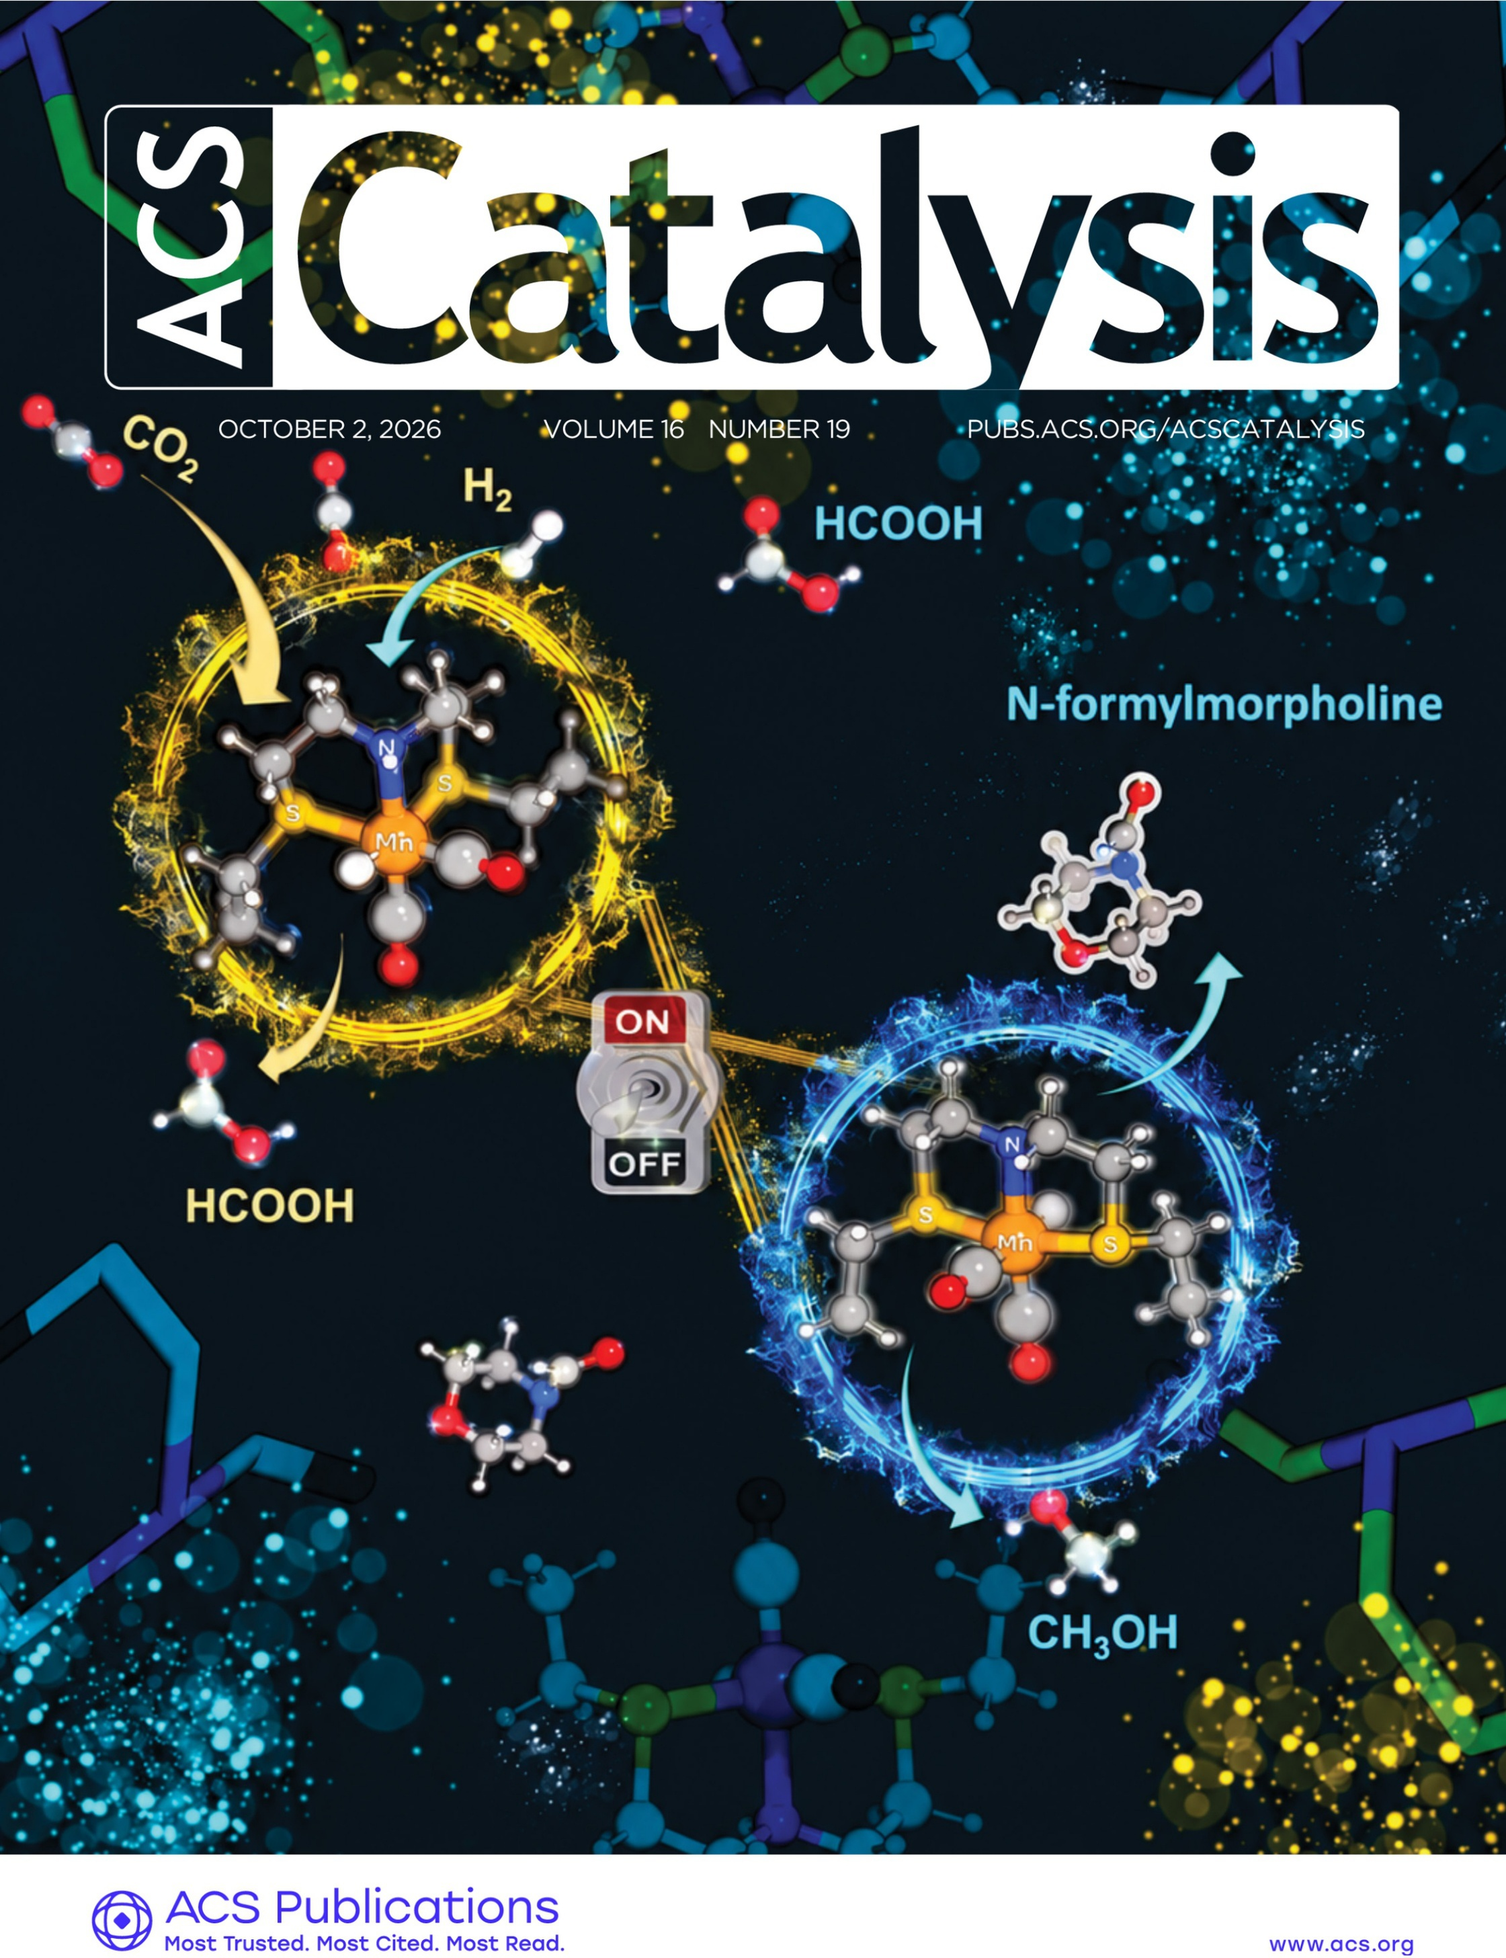
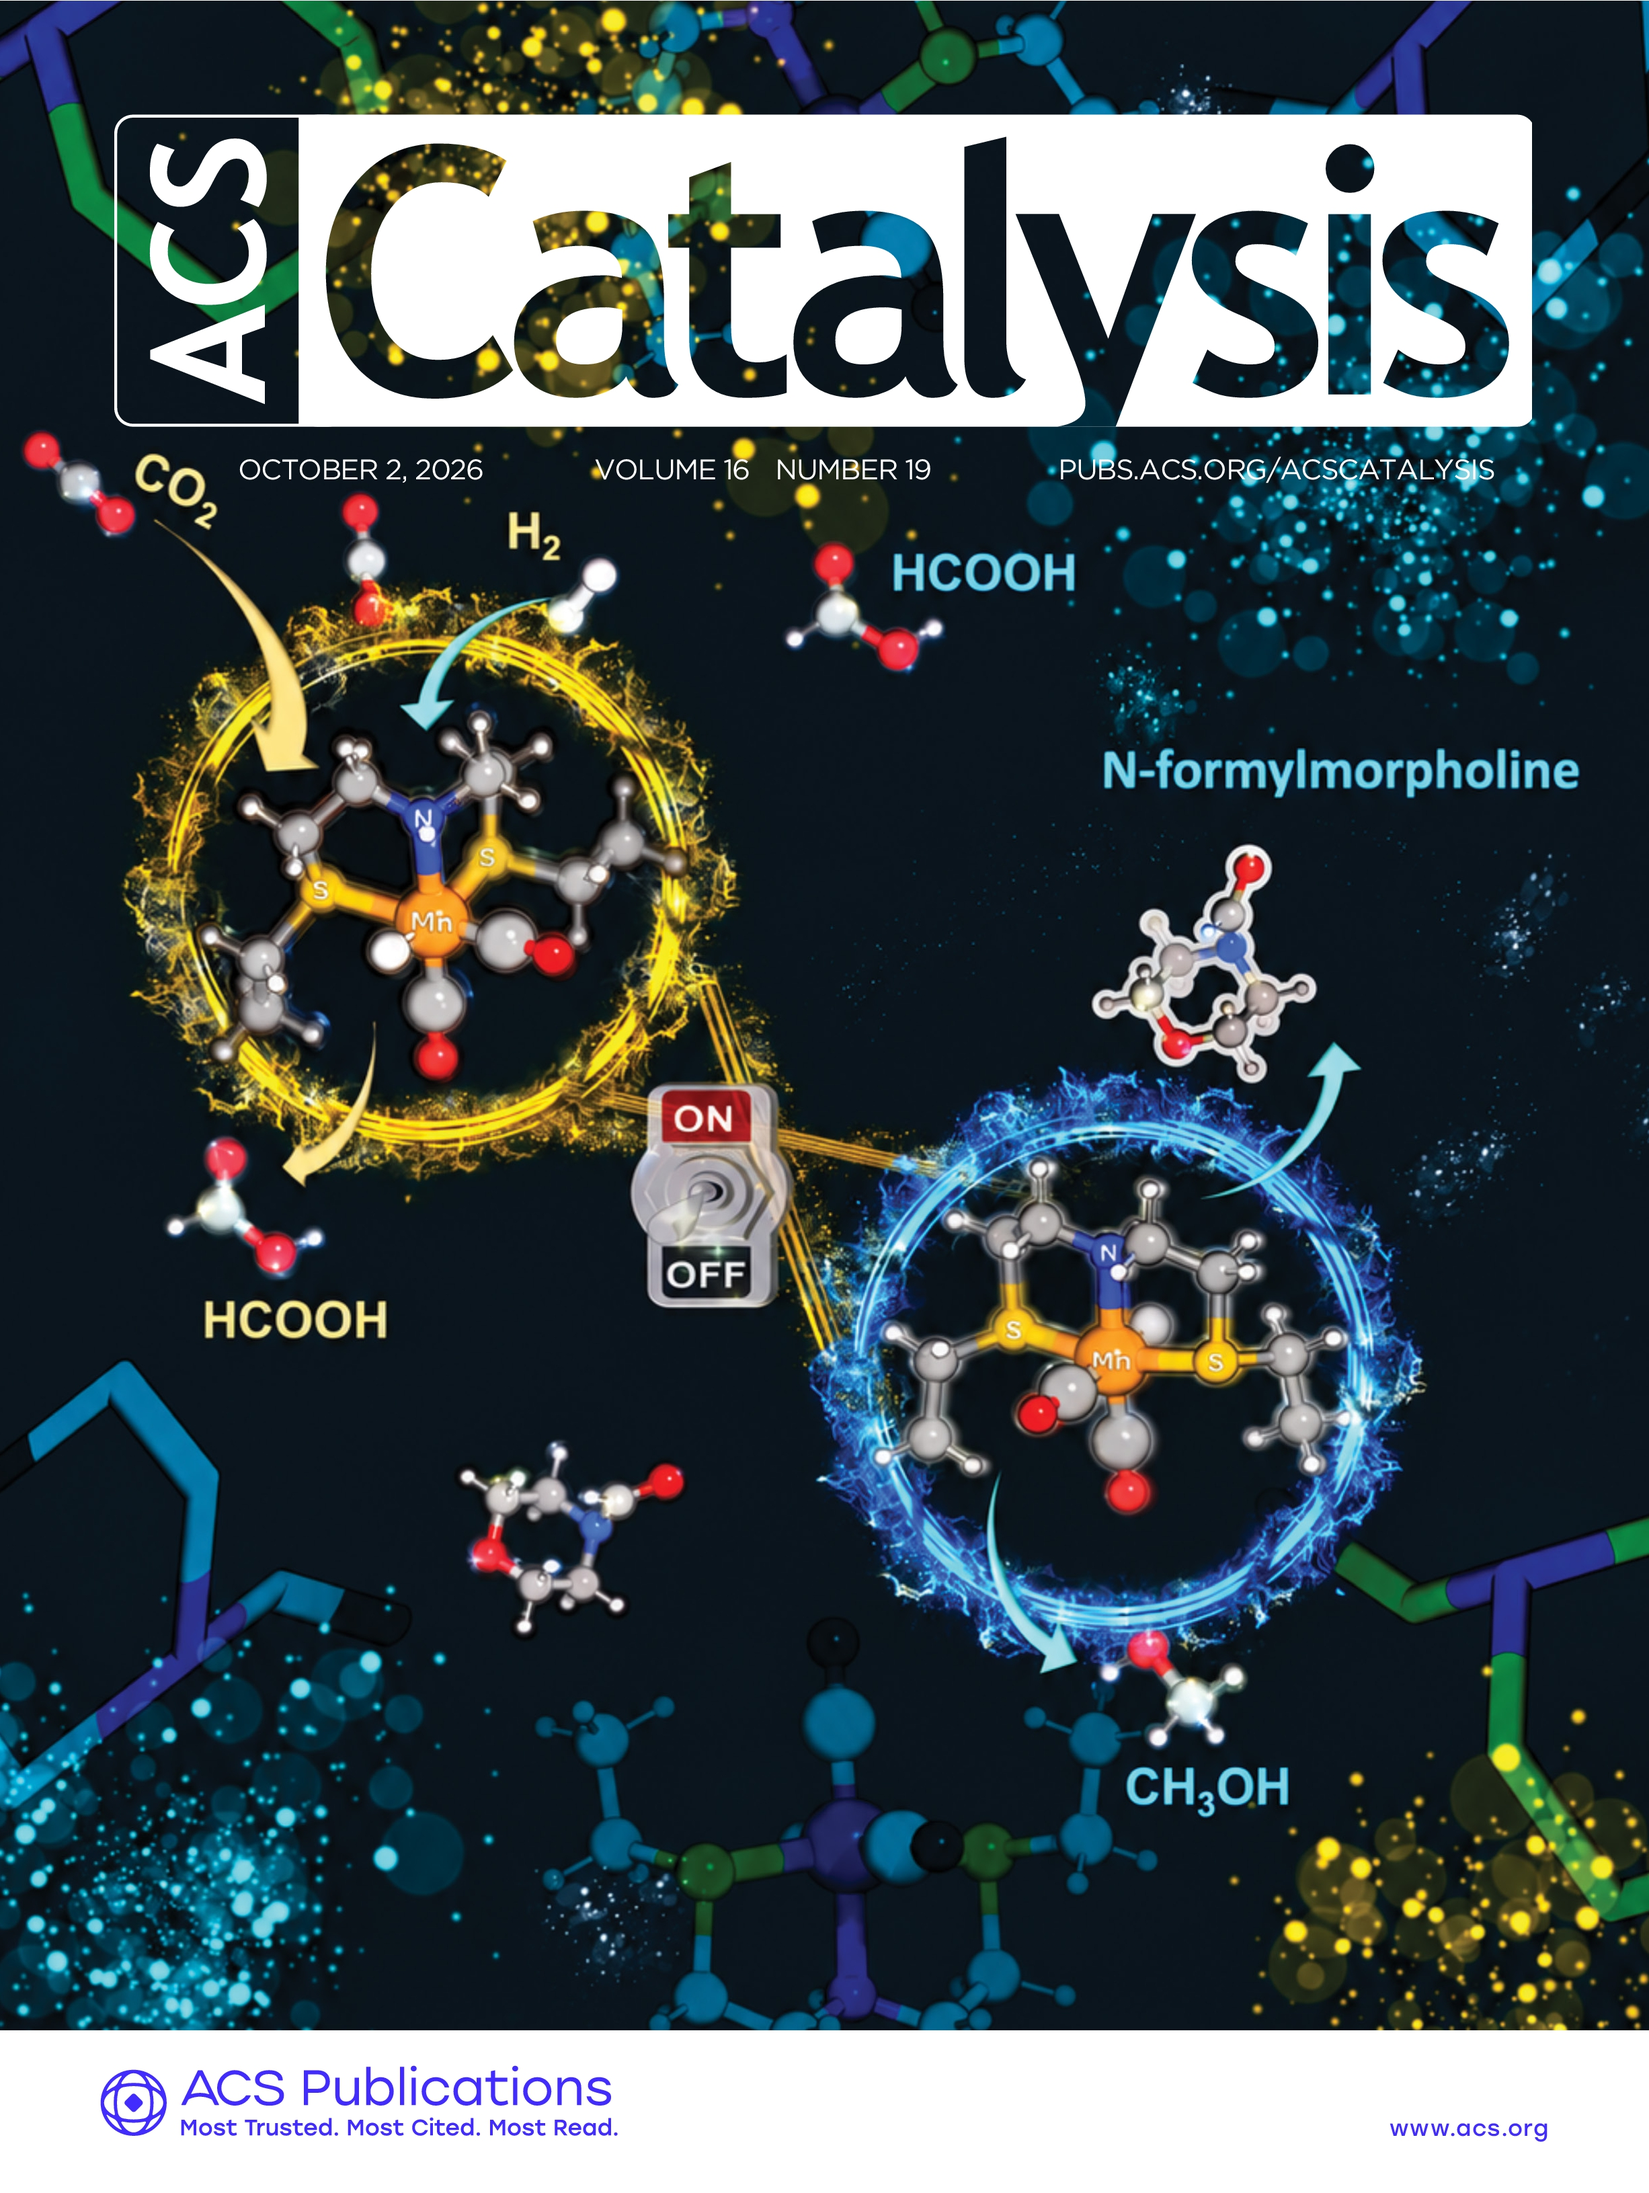
Update issue number and news for ACS Catalysis paper (#279)
* update visit of Prof. Junming Ho

* update ACS Catalysis cover

* fix typo

* update open access pdf file

* update news for supplementary cover and issue/page number

* fix typo

* remove extra cover on gallery page

diff --git a/index.html b/index.html
@@ -135,6 +135,17 @@
       <br />
       <h1 style="color: blue">News</h1>
       <ul id="myList">
+        <li class="publication">
+          <strong>2 Oct 2026:</strong> Our work on
+          <a
+            target="_blank"
+            href="https://pubs.acs.org/doi/10.1021/acscatal.6c03391"
+            >CO2 Hydrogenation to Methanol Catalyzed by Mn-SNS Complex: Role of
+            <i>fac</i>/<i>mer</i> Isomerism on Catalytic Reactivities</a
+          >
+          has been selected as a Supplementary Cover of
+          <i>ACS Catalysis</i> (2026, Volume 16, Issue 19). Congratulations to the team!
+        </li>
         <li class="appt">
           <strong>16 Sep 2026:</strong> Dr. Zhang has been appointed as a member
           of the Editorial Board of Spotlights of the

diff --git a/zh/index.html b/zh/index.html
@@ -130,6 +130,16 @@
       <br />
       <h1 style="color: blue">新闻</h1>
       <ul id="myList">
+        <li class="publication">
+          <strong>2026年10月2日：</strong>我们关于
+          <a
+            target="_blank"
+            href="https://pubs.acs.org/doi/10.1021/acscatal.6c03391"
+            >Mn-SNS配合物催化CO2加氢制甲醇：<i>fac</i>/<i>mer</i>异构化对催化反应活性的影响</a
+          >
+          的工作入选《ACS Catalysis》2026年第16卷第19期Supplementary
+          Cover。祝贺课题组！
+        </li>
         <li class="appt">
           <strong>2026年9月16日：</strong> 章博士获委任为中国化学期刊《Chinese
           Journal of Chemistry》的Spotlight编委会成员！祝贺章博士！

diff --git a/publications.html b/publications.html
@@ -281,8 +281,8 @@
                 /></a>
                 <br />
                 Vummaleti, S. V. C.;&dagger; Tan, H.;&dagger; Liu, J.;
-                <b>Zhang, X.</b>* <i>ACS Catal.</i>, <b>2026</b>, DOI:
-                10.1021/acscatal.6c03391.
+                <b>Zhang, X.</b>* <i>ACS Catal.</i>, <b>2026</b>, 16, 19,
+                19034–19047.
                 <br />
                 [<a target="_blank" href="https://zenodo.org/records/21414490"
                   >DFT structures (on Zenodo)</a

diff --git a/zh/publications.html b/zh/publications.html
@@ -246,8 +246,8 @@
                 /></a>
                 <br />
                 Vummaleti, S. V. C.;&dagger; Tan, H.;&dagger; Liu, J.;
-                <b>Zhang, X.</b>* <i>ACS Catal.</i>, <b>2026</b>, DOI:
-                10.1021/acscatal.6c03391.
+                <b>Zhang, X.</b>* <i>ACS Catal.</i>, <b>2026</b>, 16, 19,
+                19034–19047.
                 <br />
                 [<a target="_blank" href="https://zenodo.org/records/21414490"
                   >DFT structures (on Zenodo)</a
